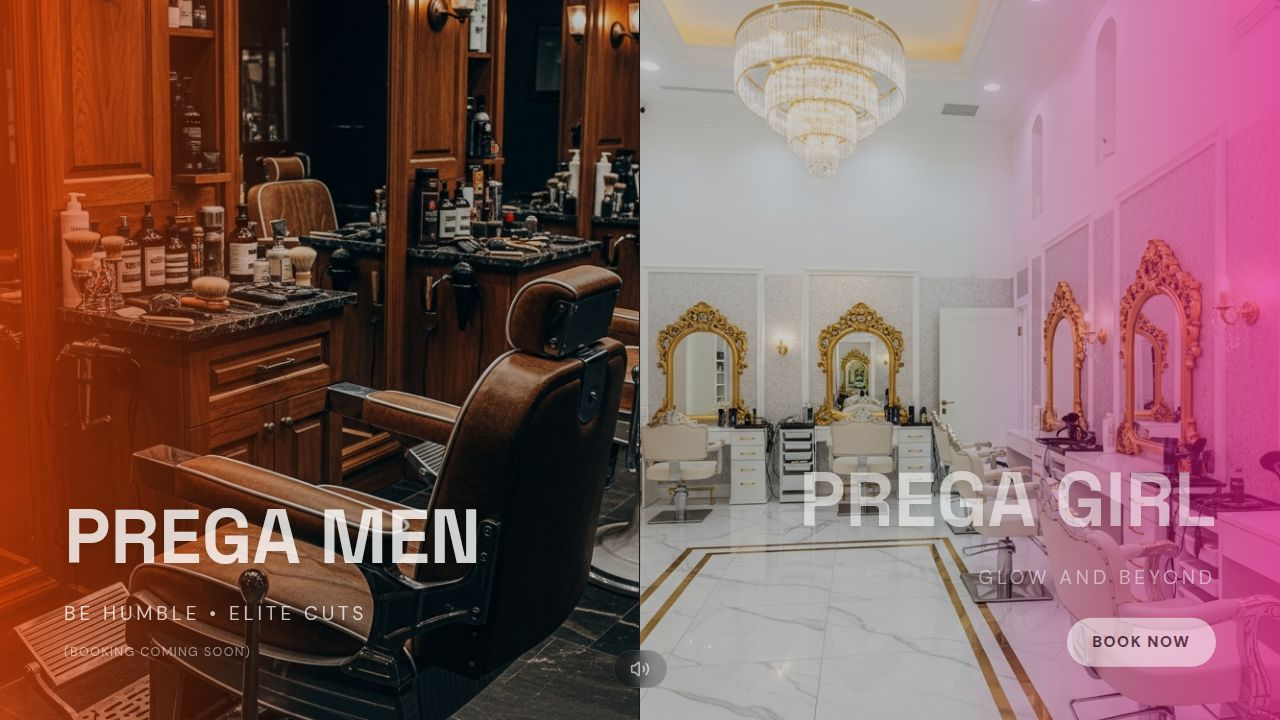
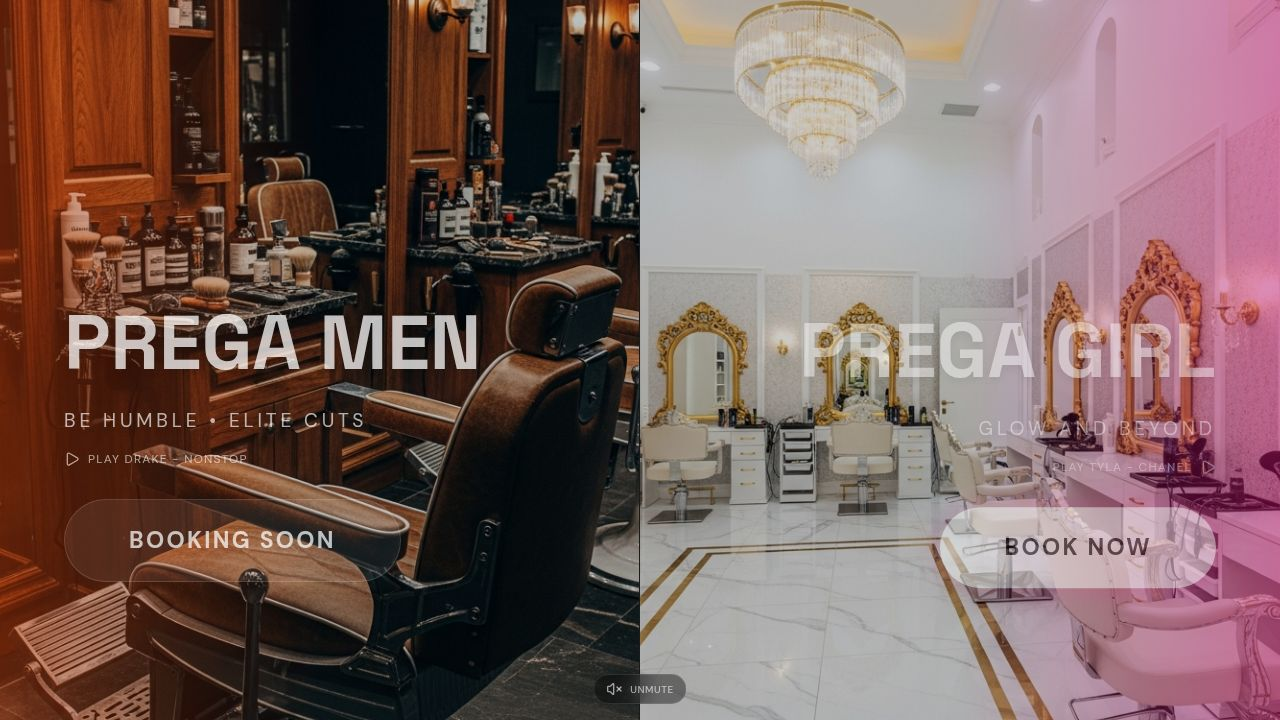
Update booking and music selection functionality on split scene
Modify SplitScene component to update booking button text and functionality for men's and women's sides, and change interaction text for background taps.

Replit-Commit-Author: Agent
Replit-Commit-Session-Id: 569b19d8-8caa-40a7-8f7e-631c46365081
Replit-Commit-Checkpoint-Type: full_checkpoint
Replit-Commit-Event-Id: 403077aa-15f5-4518-9877-9779964b4171
Replit-Commit-Screenshot-Url: https://storage.googleapis.com/screenshot-production-us-central1/ecbfb682-18d5-465c-91d5-f4eb0816e011/569b19d8-8caa-40a7-8f7e-631c46365081/yruIROw
Replit-Helium-Checkpoint-Created: true

diff --git a/client/src/components/video/video_scenes/SplitScene.tsx b/client/src/components/video/video_scenes/SplitScene.tsx
@@ -48,10 +48,17 @@ export const SplitScene = () => {
           >
             <h2 className="text-[6vw] font-bold text-white mb-[0.5vw] font-display drop-shadow-lg">PREGA MEN</h2>
             <p className="text-[1.5vw] text-white/90 font-body tracking-[0.2em] uppercase drop-shadow-md">BE HUMBLE • ELITE CUTS</p>
-            <div className="flex items-center gap-2 mt-4 text-white/80">
+            <div className="flex items-center gap-2 mt-4 text-white/80 mb-8">
                <Play className={`w-4 h-4 ${isDrakePlaying ? 'fill-white' : ''}`} />
                <span className="text-xs uppercase tracking-widest">{isDrakePlaying ? 'Now Playing' : 'Play Drake - Nonstop'}</span>
             </div>
+            
+            <button 
+              className="px-[5vw] py-[1.8vw] bg-white/10 backdrop-blur-md border border-white/20 text-white font-bold uppercase tracking-widest text-[1.8vw] rounded-full cursor-not-allowed hover:bg-white/20 transition-colors"
+              onClick={(e) => e.stopPropagation()}
+            >
+              Booking Soon
+            </button>
           </motion.div>
         </div>
       </motion.div>
@@ -79,13 +86,24 @@ export const SplitScene = () => {
             initial={{ y: 20, opacity: 0 }}
             animate={{ y: 0, opacity: 1 }}
             transition={{ delay: 1.2, duration: 0.8 }}
+            className="flex flex-col items-end"
           >
             <h2 className="text-[6vw] font-bold text-white mb-[0.5vw] font-display drop-shadow-lg">PREGA GIRL</h2>
             <p className="text-[1.5vw] text-white/90 font-body tracking-[0.2em] uppercase drop-shadow-md">GLOW AND BEYOND</p>
-            <div className="flex items-center gap-2 mt-4 text-white/80 justify-end">
+            <div className="flex items-center gap-2 mt-4 text-white/80 justify-end mb-8">
                <span className="text-xs uppercase tracking-widest">{isTylaPlaying ? 'Now Playing' : 'Play Tyla - Chanel'}</span>
                <Play className={`w-4 h-4 ${isTylaPlaying ? 'fill-white' : ''}`} />
             </div>
+
+            <button 
+              onClick={(e) => {
+                e.stopPropagation();
+                window.open('https://pregasquad.koyeb.app/booking', '_blank');
+              }}
+              className="px-[5vw] py-[1.8vw] bg-white text-black font-bold uppercase tracking-widest text-[1.8vw] rounded-full hover:scale-105 transition-transform duration-300 shadow-[0_0_30px_rgba(255,20,147,0.4)]"
+            >
+              Book Now
+            </button>
           </motion.div>
         </div>
       </motion.div>
@@ -99,25 +117,9 @@ export const SplitScene = () => {
       >
         <div className="bg-black/40 backdrop-blur-md px-[3vw] py-[1vw] rounded-full border border-white/20 shadow-2xl">
           <h3 className="text-white text-[1.5vw] font-bold font-display tracking-widest uppercase text-center drop-shadow-lg">
-            Tap sides to change vibe
+            Tap background to change vibe
           </h3>
         </div>
-      </motion.div>
-
-      {/* Book Now Button (Bottom Center) */}
-      <motion.div
-        className="absolute bottom-[15vh] left-0 right-0 flex justify-center z-40 pointer-events-auto"
-        initial={{ opacity: 0, y: 50 }}
-        animate={{ opacity: 1, y: 0 }}
-        transition={{ delay: 2.5, duration: 0.8 }}
-      >
-        <button 
-          onClick={() => window.open('https://pregasquad.koyeb.app/booking', '_blank')}
-          className="group relative px-[4vw] py-[1.2vw] bg-white text-black font-bold uppercase tracking-widest text-[1.5vw] rounded-full overflow-hidden hover:scale-105 transition-transform duration-300 shadow-[0_0_30px_rgba(255,255,255,0.3)]"
-        >
-          <span className="relative z-10 group-hover:text-white transition-colors duration-300">Book Appointment</span>
-          <div className="absolute inset-0 bg-gradient-to-r from-[#ff4500] to-[#ff1493] opacity-0 group-hover:opacity-100 transition-opacity duration-300" />
-        </button>
       </motion.div>
 
       {/* Persistent Logos floating in corners */}
